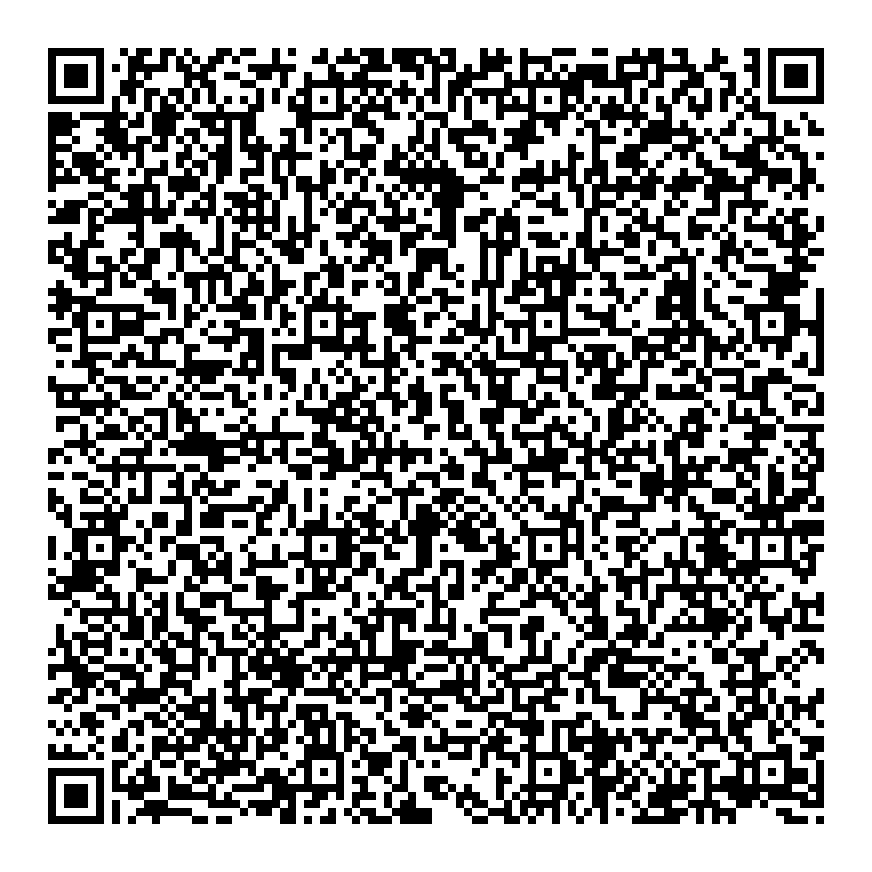
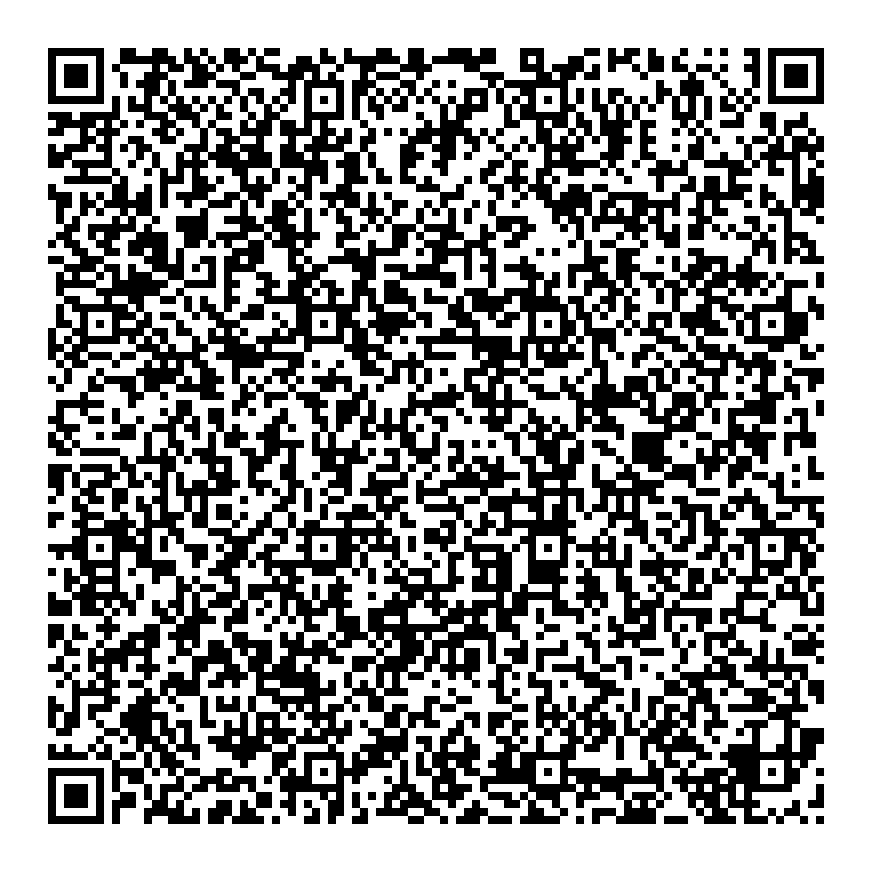
stage 1: key rotation and hardening verification

diff --git a/docs/HANDOFF.md b/docs/HANDOFF.md
@@ -6,12 +6,16 @@
 - Stage 1 core verification: done
 - Ignore and attributes configuration: done
 - Stage 1 hardening: done
+- Stage 1 key rotation and hardening verification: done
 
 ## Validation
 
 - `npm test`: passed, 1 test file and 33 tests
 - `npm run lint`: passed
 - `npm run typecheck`: passed
+- Stage 1 follow-up `npm test`: passed, 1 test file and 33 tests
+- Stage 1 follow-up `npm run lint`: passed
+- Stage 1 follow-up `npm run typecheck`: passed
 - `npm run build:test`: passed
 - `npm run build:release`: passed, Vite emitted `dist/release/agebarrier.js`
 - `npm run check:no-network`: passed
@@ -30,6 +34,11 @@
 - `test/core.spec.ts`: expanded manifest, hostile-input, ordering, Latin-1, age, DOB, and static checks
 - `eslint.config.mjs`: added core restrictions for Node globals and console
 - `package.json`: added the `typecheck` script
+- `testdata/keys/test_public.pem`: rotated
+- `testdata/keys/other_public.pem`: rotated
+- `testdata/payload/*.txt`: re-signed for all 25 manifest cases
+- `testdata/qr/*.png`: regenerated for rotated payloads
+- `testdata/manifest.json`: preserved case metadata and updated payload digit lengths
 
 ## Decisions
 
@@ -40,17 +49,26 @@
 - Kept parser helpers exported only through the deep test path and marked them `internal, for tests only`; the package entry point exposes only the requested API.
 - Imported SPKI keys as non-extractable verify-only keys and rejected trusted keys whose algorithm metadata is not RSA-2048/SHA-256.
 - Used concurrent decompression reading/writing with cancellation and writer abort on failure.
+- Generated fresh RSA-2048 fixture key pairs with Node crypto; old private-key material was removed from the working tree before generation.
+- Re-signed all 25 cases while preserving fields, expected outcomes, and mutations; forged and tampered cases remain invalid relative to the new trusted key.
+- Confirmed no runtime device-key generation, embedding/credential signing, or storage implementation exists yet. The current extension shell is only `src/extension/index.ts`; test fixture keys and runtime device keys therefore cannot currently share material or storage.
+- Confirmed `importSpkiPem` has only the SPKI `BEGIN PUBLIC KEY` branch; no RSA PKCS#1 branch remains.
+- Confirmed the official-sample dimension helper requires 16 bytes and is exercised by the official-sample test.
+- Confirmed the static core test checks all eight prohibited patterns: `chrome.`, `Buffer`, `process.`, `require(`, `console.`, `eval(`, `fetch(`, and `XMLHttpRequest`.
+- Confirmed the gzip bomb is 1,048,576 decompressed bytes, 2,531 decimal digits, and therefore within the 7,089-digit input limit.
 
 ## Open TODO(question)
 
 - Confirm the future location and behavior of `scripts/verify-real-qr.mjs`.
 - Confirm whether the runtime environment should provide `atob` independently of browser APIs.
+- Implement the runtime device key and credential/embedding storage flow in the extension stages; separation from fixture signing keys can then be verified against concrete files.
 
 ## Known failures or unfinished work
 
 - `docs/PHASE1.md` references `scripts/verify-real-qr.mjs`, which does not exist yet and is outside this step's scope.
 - No known failures remain for the Stage 1 hardening scope.
+- Runtime device-key separation is not yet implementable because the runtime key flow does not exist.
 
 ## Next action
 
-Proceed to the next planned stage after reviewing the Stage 1 hardening commit.
+Commit the key rotation and verification results, then proceed to the next planned stage.
